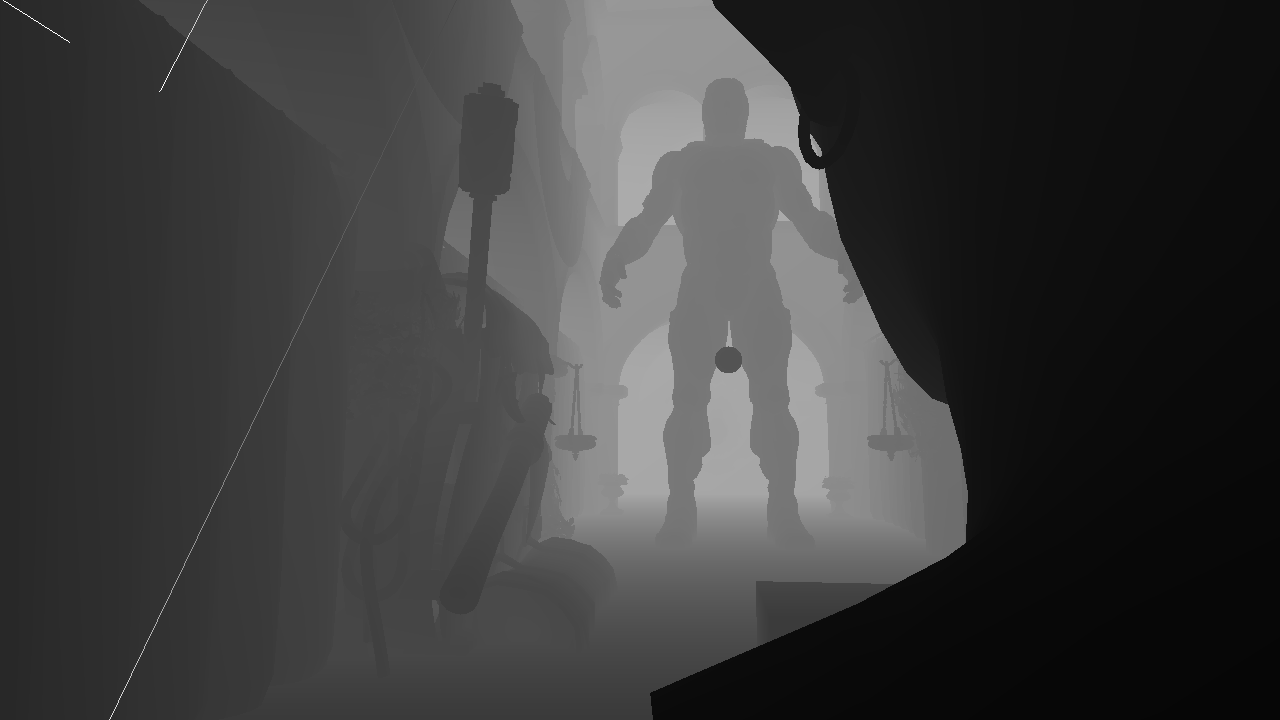
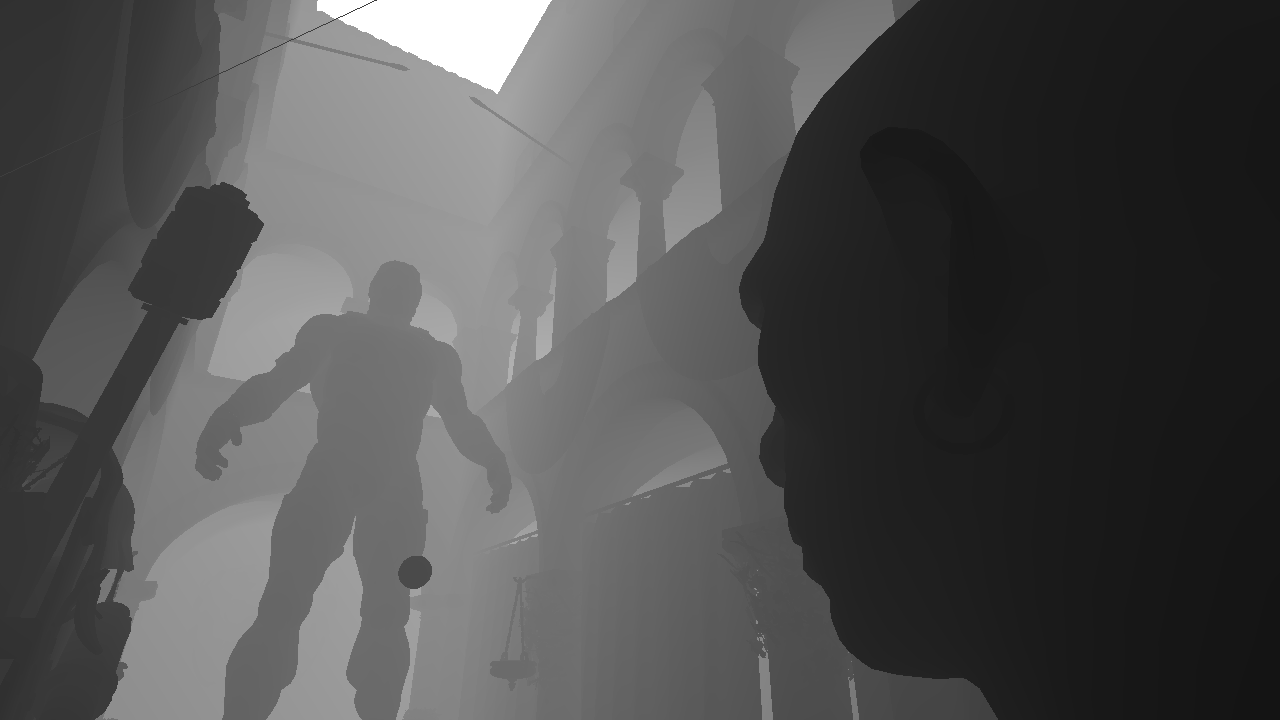
Added shadow map texture capturing.

diff --git a/HW3D/App.cpp b/HW3D/App.cpp
@@ -43,6 +43,8 @@ App::App( const std::string& commandLine ) :
 	goblin.LinkTechniques( rg );
 	backpack.LinkTechniques( rg );
 	cameras.LinkTechniques( rg );
+
+	rg.BindShadowCamera( *light.ShareCamera() );
 }
 
 int App::Init()
@@ -92,8 +94,11 @@ void App::HandleInput( float dt )
 				wnd.mouse.DisableRaw();
 			}
 			break;
-		case VK_RETURN:
+		case VK_NUMPAD1:
 			saveDepth = true;
+			break;
+		case VK_NUMPAD2:
+			saveShadow = true;
 			break;
 		}
 	}
@@ -127,8 +132,8 @@ void App::DoFrame( float dt )
 {
 	// setup
 	wnd.Gfx().BeginFrame( 0.07f, 0.0f, 0.12f );
-	rg.BindMainCamera( cameras.GetActiveCamera() );
 	light.Bind( wnd.Gfx(), cameras->GetMatrix() );
+	rg.BindMainCamera( cameras.GetActiveCamera() );
 
 	// objects
 	light.Submit( Channel::main );
@@ -140,7 +145,27 @@ void App::DoFrame( float dt )
 	cube2.Submit( Channel::main );
 	cameras.Submit( Channel::main );
 
+	light.Submit( Channel::shadow );
+	sponza.Submit( Channel::shadow );
+	nanosuit.Submit( Channel::shadow );
+	goblin.Submit( Channel::shadow );
+	backpack.Submit( Channel::shadow );
+	cube.Submit( Channel::shadow );
+	cube2.Submit( Channel::shadow );
+
 	rg.Execute( wnd.Gfx() );
+
+	if ( saveDepth )
+	{
+		rg.StoreDepth( wnd.Gfx(), "res\\depth\\view-depth.png" );
+		saveDepth = false;
+	}
+
+	if ( saveShadow )
+	{
+		rg.DumpShadowMap( wnd.Gfx(), "res\\depth\\shadow.png" );
+		saveShadow = false;
+	}
 
 	// imgui
 	if ( wnd.Gfx().IsImGuiEnabled() )
@@ -165,12 +190,6 @@ void App::DoFrame( float dt )
 	
 	wnd.Gfx().EndFrame();
 	rg.Reset();
-
-	if ( saveDepth )
-	{
-		rg.StoreDepth( wnd.Gfx(), "res\\depth\\view-depth.png" );
-		saveDepth = false;
-	}
 }
 
 void App::ShowRawInputWindow()

diff --git a/HW3D/ShadowMappingPass.h b/HW3D/ShadowMappingPass.h
@@ -1,0 +1,48 @@
+#pragma once
+#include "RenderQueuePass.h"
+#include "Blender.h"
+#include "NullPixelShader.h"
+#include "Rasterizer.h"
+#include "Stencil.h"
+#include "PixelShader.h"
+#include "VertexShader.h"
+#include "RenderTarget.h"
+#include "Source.h"
+#include "Job.h"
+#include <vector>
+
+class Graphics;
+
+namespace Rgph
+{
+	class ShadowMappingPass : public RenderQueuePass
+	{
+	public:
+		ShadowMappingPass( Graphics& gfx, std::string name ) :
+			RenderQueuePass( std::move( name ) )
+		{
+			depthStencil = std::make_unique<Bind::ShaderInputDepthStencil>( gfx, 3, Bind::DepthStencil::Usage::ShadowDepth );
+			AddBind( Bind::VertexShader::Resolve( gfx, "SolidVS.cso" ) );
+			AddBind( Bind::NullPixelShader::Resolve( gfx ) );
+			AddBind( Bind::Stencil::Resolve( gfx, Bind::Stencil::Mode::Off ) );
+			AddBind( Bind::Blender::Resolve( gfx, false ) );
+			RegisterSource( DirectBindableSource<Bind::DepthStencil>::Make( "shadowMap", depthStencil ) );
+		}
+		void BindShadowCamera( const Camera& cam ) noexcept
+		{
+			pShadowCamera = &cam;
+		}
+		void Execute( Graphics& gfx ) const noexcept(!IS_DEBUG) override
+		{
+			depthStencil->Clear( gfx );
+			pShadowCamera->BindToGraphics( gfx );
+			RenderQueuePass::Execute( gfx );
+		}
+		void DumpShadowMap( Graphics& gfx, const std::string& path ) const
+		{
+			depthStencil->ToSurface( gfx ).Save( path );
+		}
+	private:
+		const Camera* pShadowCamera = nullptr;
+	};
+}

diff --git a/HW3D/BlurOutlineRG.cpp b/HW3D/BlurOutlineRG.cpp
@@ -7,6 +7,7 @@
 #include "HorizontalBlurPass.h"
 #include "VerticalBlurPass.h"
 #include "BlurOutlineDrawPass.h"
+#include "ShadowMappingPass.h"
 #include "RenderTarget.h"
 #include "DynamicConstant.h"
 #include "Source.h"
@@ -27,6 +28,10 @@ namespace Rgph
 			auto pass = std::make_unique<BufferClearPass>("clearDS");
 			pass->SetSinkLinkage("buffer", "$.masterDepth");
 			AppendPass(std::move(pass));
+		}
+		{
+			auto pass = std::make_unique<ShadowMappingPass>( gfx, "shadowMap" );
+			AppendPass( std::move( pass ) );
 		}
 		{
 			auto pass = std::make_unique<LambertianPass>(gfx, "lambertian");
@@ -172,8 +177,18 @@ namespace Rgph
 		blurKernel->SetBuffer( kernel );
 	}
 
+	void BlurOutlineRG::DumpShadowMap( Graphics& gfx, const std::string& path )
+	{
+		dynamic_cast<ShadowMappingPass&>( FindPassByName( "shadowMap" ) ).DumpShadowMap( gfx, path );
+	}
+
 	void BlurOutlineRG::BindMainCamera( Camera& cam )
 	{
 		dynamic_cast<LambertianPass&>( FindPassByName( "lambertian" ) ).BindMainCamera( cam );
+	}
+
+	void BlurOutlineRG::BindShadowCamera( Camera& cam )
+	{
+		dynamic_cast<ShadowMappingPass&>( FindPassByName( "shadowMap" ) ).BindShadowCamera( cam );
 	}
 }

diff --git a/HW3D/Material.cpp b/HW3D/Material.cpp
@@ -152,6 +152,19 @@ Material::Material( Graphics& gfx, const aiMaterial& material, const std::filesy
 		}
 		techniques.push_back( std::move( outline ) );
 	}
+	// shadow mapping
+	{
+		Technique shadow{ "Shadow Map", Channel::shadow, true };
+		{
+			Step draw( "shadowMap" );
+
+			draw.AddBindable( Bind::InputLayout::Resolve( gfx, layout, *Bind::VertexShader::Resolve( gfx, "SolidVS.cso" ) ) );
+			draw.AddBindable( std::make_shared<Bind::TransformCbuf>( gfx ) );
+
+			shadow.AddStep( std::move( draw ) );
+		}
+		techniques.push_back( std::move( shadow ) );
+	}
 }
 
 VertexMeta::VertexBuffer Material::ExtractVertices( const aiMesh& mesh ) const noexcept

diff --git a/HW3D/NormalCube.cpp b/HW3D/NormalCube.cpp
@@ -81,6 +81,19 @@ NormalCube::NormalCube( Graphics& gfx, float size )
 		}
 		AddTechnique( std::move( outline ) );
 	}
+
+	{
+		Technique shadow{ "ShadowMap", Channel::shadow, true };
+		{
+			Step draw( "shadowMap" );
+
+			draw.AddBindable( Bind::InputLayout::Resolve( gfx, model.vertices.GetLayout(), *Bind::VertexShader::Resolve( gfx, "SolidVS.cso" ) ) );
+			draw.AddBindable( std::make_shared<Bind::TransformCbuf>( gfx ) );
+
+			shadow.AddStep( std::move( draw ) );
+		}
+		AddTechnique( std::move( shadow ) );
+	}
 }
 
 void NormalCube::SetPos( DirectX::XMFLOAT3 pos ) noexcept

diff --git a/HW3D/NullPixelShader.cpp b/HW3D/NullPixelShader.cpp
@@ -9,7 +9,8 @@ namespace Bind
 
 	void NullPixelShader::Bind( Graphics& gfx ) noexcept(!IS_DEBUG)
 	{
-		GetContext( gfx )->PSSetShader( nullptr, nullptr, 0u );
+		INFOMANAGER_NOHR( gfx );
+		GFX_THROW_INFO_ONLY( GetContext( gfx )->PSSetShader( nullptr, nullptr, 0u ) );
 	}
 
 	std::shared_ptr<NullPixelShader> NullPixelShader::Resolve( Graphics& gfx )

diff --git a/HW3D/BlurOutlineRG.h b/HW3D/BlurOutlineRG.h
@@ -19,6 +19,7 @@ namespace Rgph
 	public:
 		BlurOutlineRG( Graphics& gfx );
 		void RenderWidgets( Graphics& gfx );
+		void DumpShadowMap( Graphics& gfx, const std::string& path );
 		void BindMainCamera( Camera& cam );
 		void BindShadowCamera( Camera& cam );
 	private:

diff --git a/HW3D/App.h b/HW3D/App.h
@@ -39,4 +39,5 @@ private:
 	std::string commandLine;
 	int x = 0, y = 0;
 	bool saveDepth = false;
+	bool saveShadow = false;
 };
